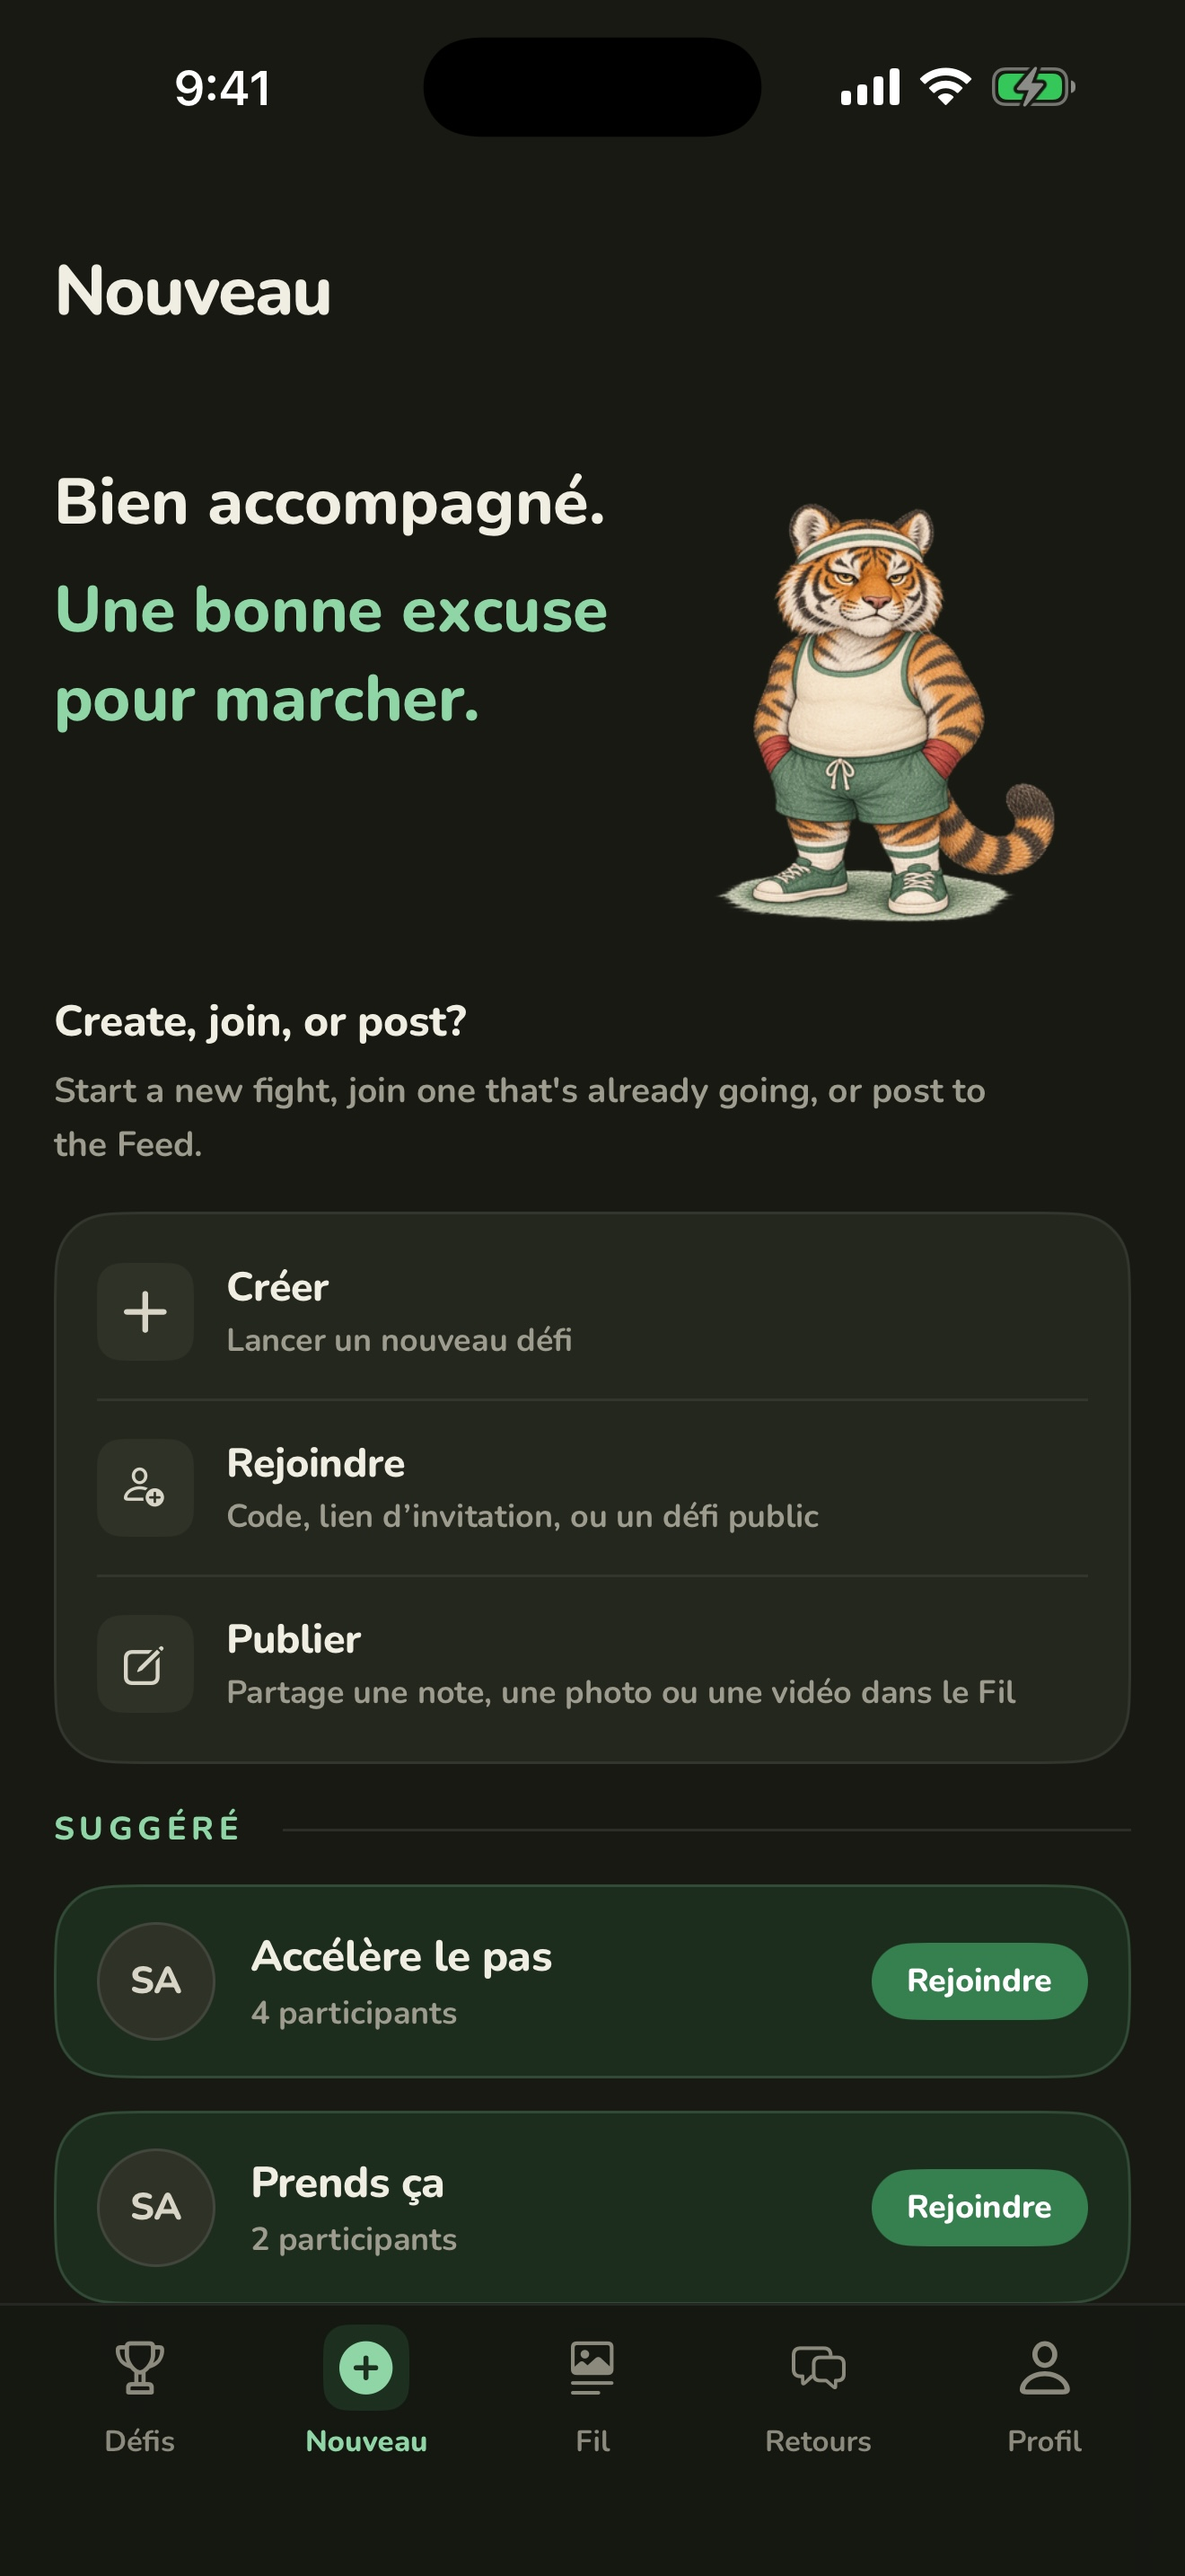
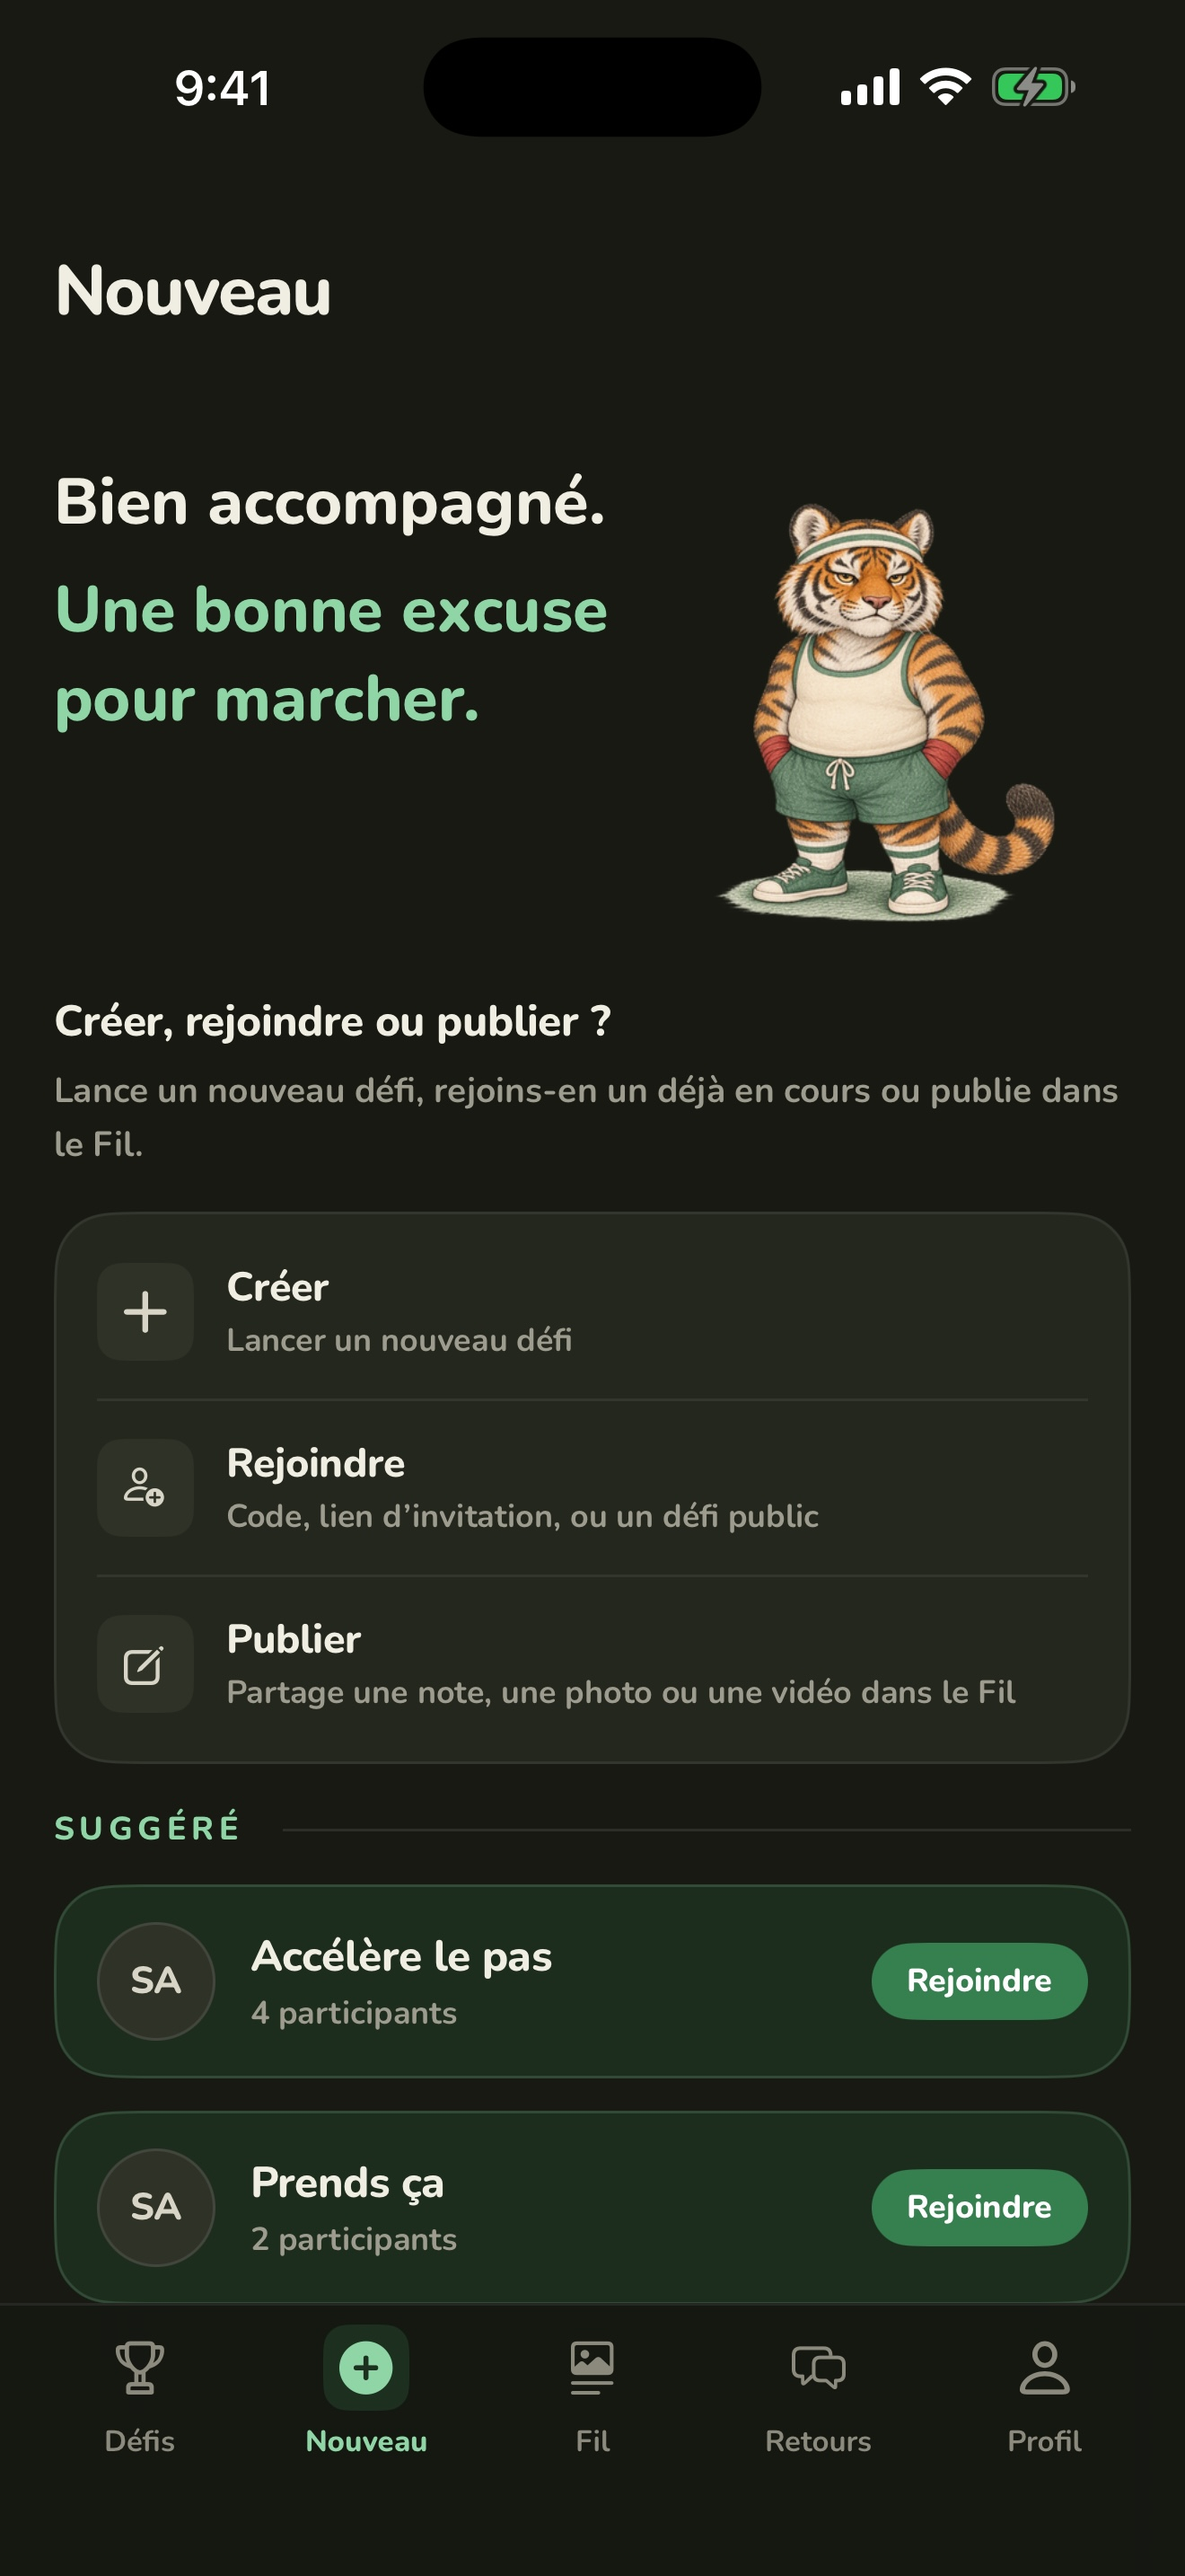
Final 1.2.0 screenshots, and point the release script at them
Replaces the package images with the run on 48ba6abb (French New heading
translated, no iOS banner). scripts/app-store-release-audit.rb prepare now
uploads docs/app-store/2026-10-16 instead of the 15 Sep set. Doc fixes from
review: Fights order, What's new wording, Versions row count.

Changed region(s): [[0.0621, 0.3724, 0.497, 0.4655], [0.528, 0.4034, 0.9318, 0.4344]]

diff --git a/scripts/app-store-release-audit.rb b/scripts/app-store-release-audit.rb
@@ -68,7 +68,7 @@ if ["configure", "prepare", "submit"].include?(mode)
         app_identifier: "com.fitfight.mvp", app_version: release_version,
         skip_binary_upload: true, skip_app_version_update: true,
         skip_metadata: true, skip_screenshots: mode == "submit",
-        screenshots_path: File.expand_path("../docs/app-store/2026-09-15", __dir__),
+        screenshots_path: File.expand_path("../docs/app-store/2026-10-16", __dir__),
         overwrite_screenshots: mode == "prepare", submit_for_review: mode == "submit",
         automatic_release: true, run_precheck_before_submit: false, force: true
     }

diff --git a/docs/app-store/metadata.md b/docs/app-store/metadata.md
@@ -75,13 +75,13 @@ English (U.S.) and French (France) App Store copy. Keep the existing approved ap
 > New post: send it to everyone, or choose your friends and the fights that see it.
 > Name your companion: pick a name and a line, and see your friends' companions on their profiles.
 > Change your fight's code in Edit. A repeating fight shows your last round's result when it starts again.
-> FitFight opens on your last fights, even offline, and refreshes faster.
+> FitFight opens on your last fights, even offline, and updates them in the background.
 
 ## Screenshot set
 
 Six 1320 x 2868 JPEGs per language for the 6.9-inch iPhone set; App Store Connect scales them down for smaller iPhones. The Screenshots workflow captures them from the running app on an iPhone 17 Pro Max simulator in Companion preview, which uses the website's sample people and fights: Alex (you, Tiger), Leo (Silverback), Nina (Capybara), Sam (Hedgehog) and Theo (Panda), in Walk Wars, Eat it and Step it Up, with 8,432 steps today. The 1.2.0 set is in [2026-10-16](2026-10-16/index.html), from the `app-store-screenshots` and `app-store-screenshots-fr` artifacts.
 
-1. Fights with Walk Wars (+860), Eat it (-1,260) and Step it Up (+2,840).
+1. Fights with Walk Wars (+860), Step it Up (+2,840) and Eat it (-1,260).
 2. Eat it, a live 1v1 against Theo with totals and standings.
 3. New with the Tiger: Create, Join or Post, and two suggested fights.
 4. An invitation from Sam with Accept and Decline.
@@ -153,6 +153,6 @@ Keep English (U.S.) as the primary App Store language and add French (France) as
 > Nouvelle publication : envoyez-la à tout le monde, ou choisissez les amis et les défis qui la voient.
 > Nommez votre compagnon : choisissez un nom et une phrase, et découvrez les compagnons de vos amis sur leur profil.
 > Changez le code de votre défi dans Modifier. Un défi récurrent affiche le résultat de votre dernière manche quand il recommence.
-> FitFight s’ouvre sur vos derniers défis, même hors ligne, et se met à jour plus vite.
+> FitFight s’ouvre sur vos derniers défis, même hors ligne, et les met à jour en arrière-plan.
 
 Use the same six screenshot subjects as English, from the `app-store-screenshots-fr` artifact.

diff --git a/docs/status.md b/docs/status.md
@@ -12,22 +12,22 @@ Marc asked to start 1.2.0 for the App Store, with screenshots and listing that m
 fitfight.app redesign of 15 Oct.
 
 **Version:** `MARKETING_VERSION`, the TestFlight and App Store workflows and the docs say
-1.2.0 (the 15 Oct `version-1.2.0` commit, replayed on develop). The eleven Versions rows added
-since 1.1.3 (226) say 1.2.0; rows shipped in 226 keep 1.1.3. The 16 Oct release note got its
+1.2.0 (the 15 Oct `version-1.2.0` commit, replayed on develop). Every Versions row added
+since 1.1.3 (226) says 1.2.0; rows shipped in 226 keep 1.1.3. The 16 Oct release note got its
 missing French, which had turned develop's Screenshots and simulator checks red. New's
 "Create, join, or post?" heading and its line had no French entry at all (the localization
 check only covers `String(appLocalized:)` keys); both are translated, with a release note.
 
 **Sample data:** Companion preview now uses the website's cast: Alex (you, Tiger), Leo
 (Silverback), Nina (Capybara), Sam (Hedgehog), Theo (Panda); fights Walk Wars, Eat it and
-Step it Up with the website's numbers; the website's three Feed posts. Change
+Step it Up with the website's gaps and time left; the website's three Feed posts. Change
 `FitFight/CompanionPreview.swift` and `web/components/landing/landing-copy.ts` together.
 Preview only; no production code path or API contract changed.
 
 **Screenshots:** the Screenshots workflow now captures six real-simulator screens per language
 on an iPhone 17 Pro Max (1320 x 2868), replacing the five ImageRenderer JPEGs, which showed no
 steps, initials instead of companions and a broken search field. The set is in
-`docs/app-store/2026-10-16/`. Listing copy (promotional text, description, What's new) is in
+`docs/app-store/2026-10-16/`, which `scripts/app-store-release-audit.rb prepare` now uploads. Listing copy (promotional text, description, What's new) is in
 `docs/app-store/metadata.md`, from the website's English and French.
 
 **Not done:** nothing is uploaded to App Store Connect. 1.1.3 (226) is still in review

diff --git a/docs/app-store/2026-10-16/README.md b/docs/app-store/2026-10-16/README.md
@@ -17,10 +17,10 @@ Marc asked on 16 Oct 2026 for the 1.2.0 screenshots to match the fitfight.app re
 
 ## Capture
 
-The Screenshots workflow (`.github/workflows/ios-screenshots.yml`, step "Capture App Store screenshots") builds the Debug simulator app with the production `BuildEnv.swift`, then launches it on an iPhone 17 Pro Max simulator with `FF_COMPANION_PREVIEW=1`, `FF_SHOOT=1` and `FF_SHOT` set to `fights`, `fight`, `new`, `invitation`, `you` or `feed`, in English and French. The status bar shows 9:41. The images come from the `app-store-screenshots` and `app-store-screenshots-fr` artifacts. No Mac other than GitHub's hosted runner was used.
+The Screenshots workflow (`.github/workflows/ios-screenshots.yml`, step "Capture App Store screenshots") builds the Debug simulator app with the production `BuildEnv.swift`, then launches it on an iPhone 17 Pro Max simulator with `FF_COMPANION_PREVIEW=1`, `FF_SHOOT=1` and `FF_SHOT` set to `fights`, `fight`, `new`, `invitation`, `you` or `feed`, in English and French. The status bar shows 9:41. The images come from the `app-store-screenshots` and `app-store-screenshots-fr` artifacts. No Mac other than GitHub's hosted runner was used. Look at every image before committing it: a run on 16 Oct caught an iOS "Ready for Apple Intelligence" banner on one French capture, and a rerun fixed it.
 
 The Profile screen shows the simulator build's version line, `1.2.0 · build 1 · prod`. The captures use sample data only; they do not prove sign-in, Apple Health sync or the live backend.
 
 ## Upload
 
-Not uploaded. 1.1.3 (226) is still in App Review, so App Store Connect cannot hold a 1.2.0 version yet. When it can, upload these twelve images with the 1.2.0 copy in [metadata](../metadata.md), replacing the 15 Sep set.
+Not uploaded. 1.1.3 (226) is still in App Review, so App Store Connect cannot hold a 1.2.0 version yet. When it can, `scripts/app-store-release-audit.rb prepare` uploads these twelve images, replacing the 15 Sep set; save the 1.2.0 copy in [metadata](../metadata.md) with them.
